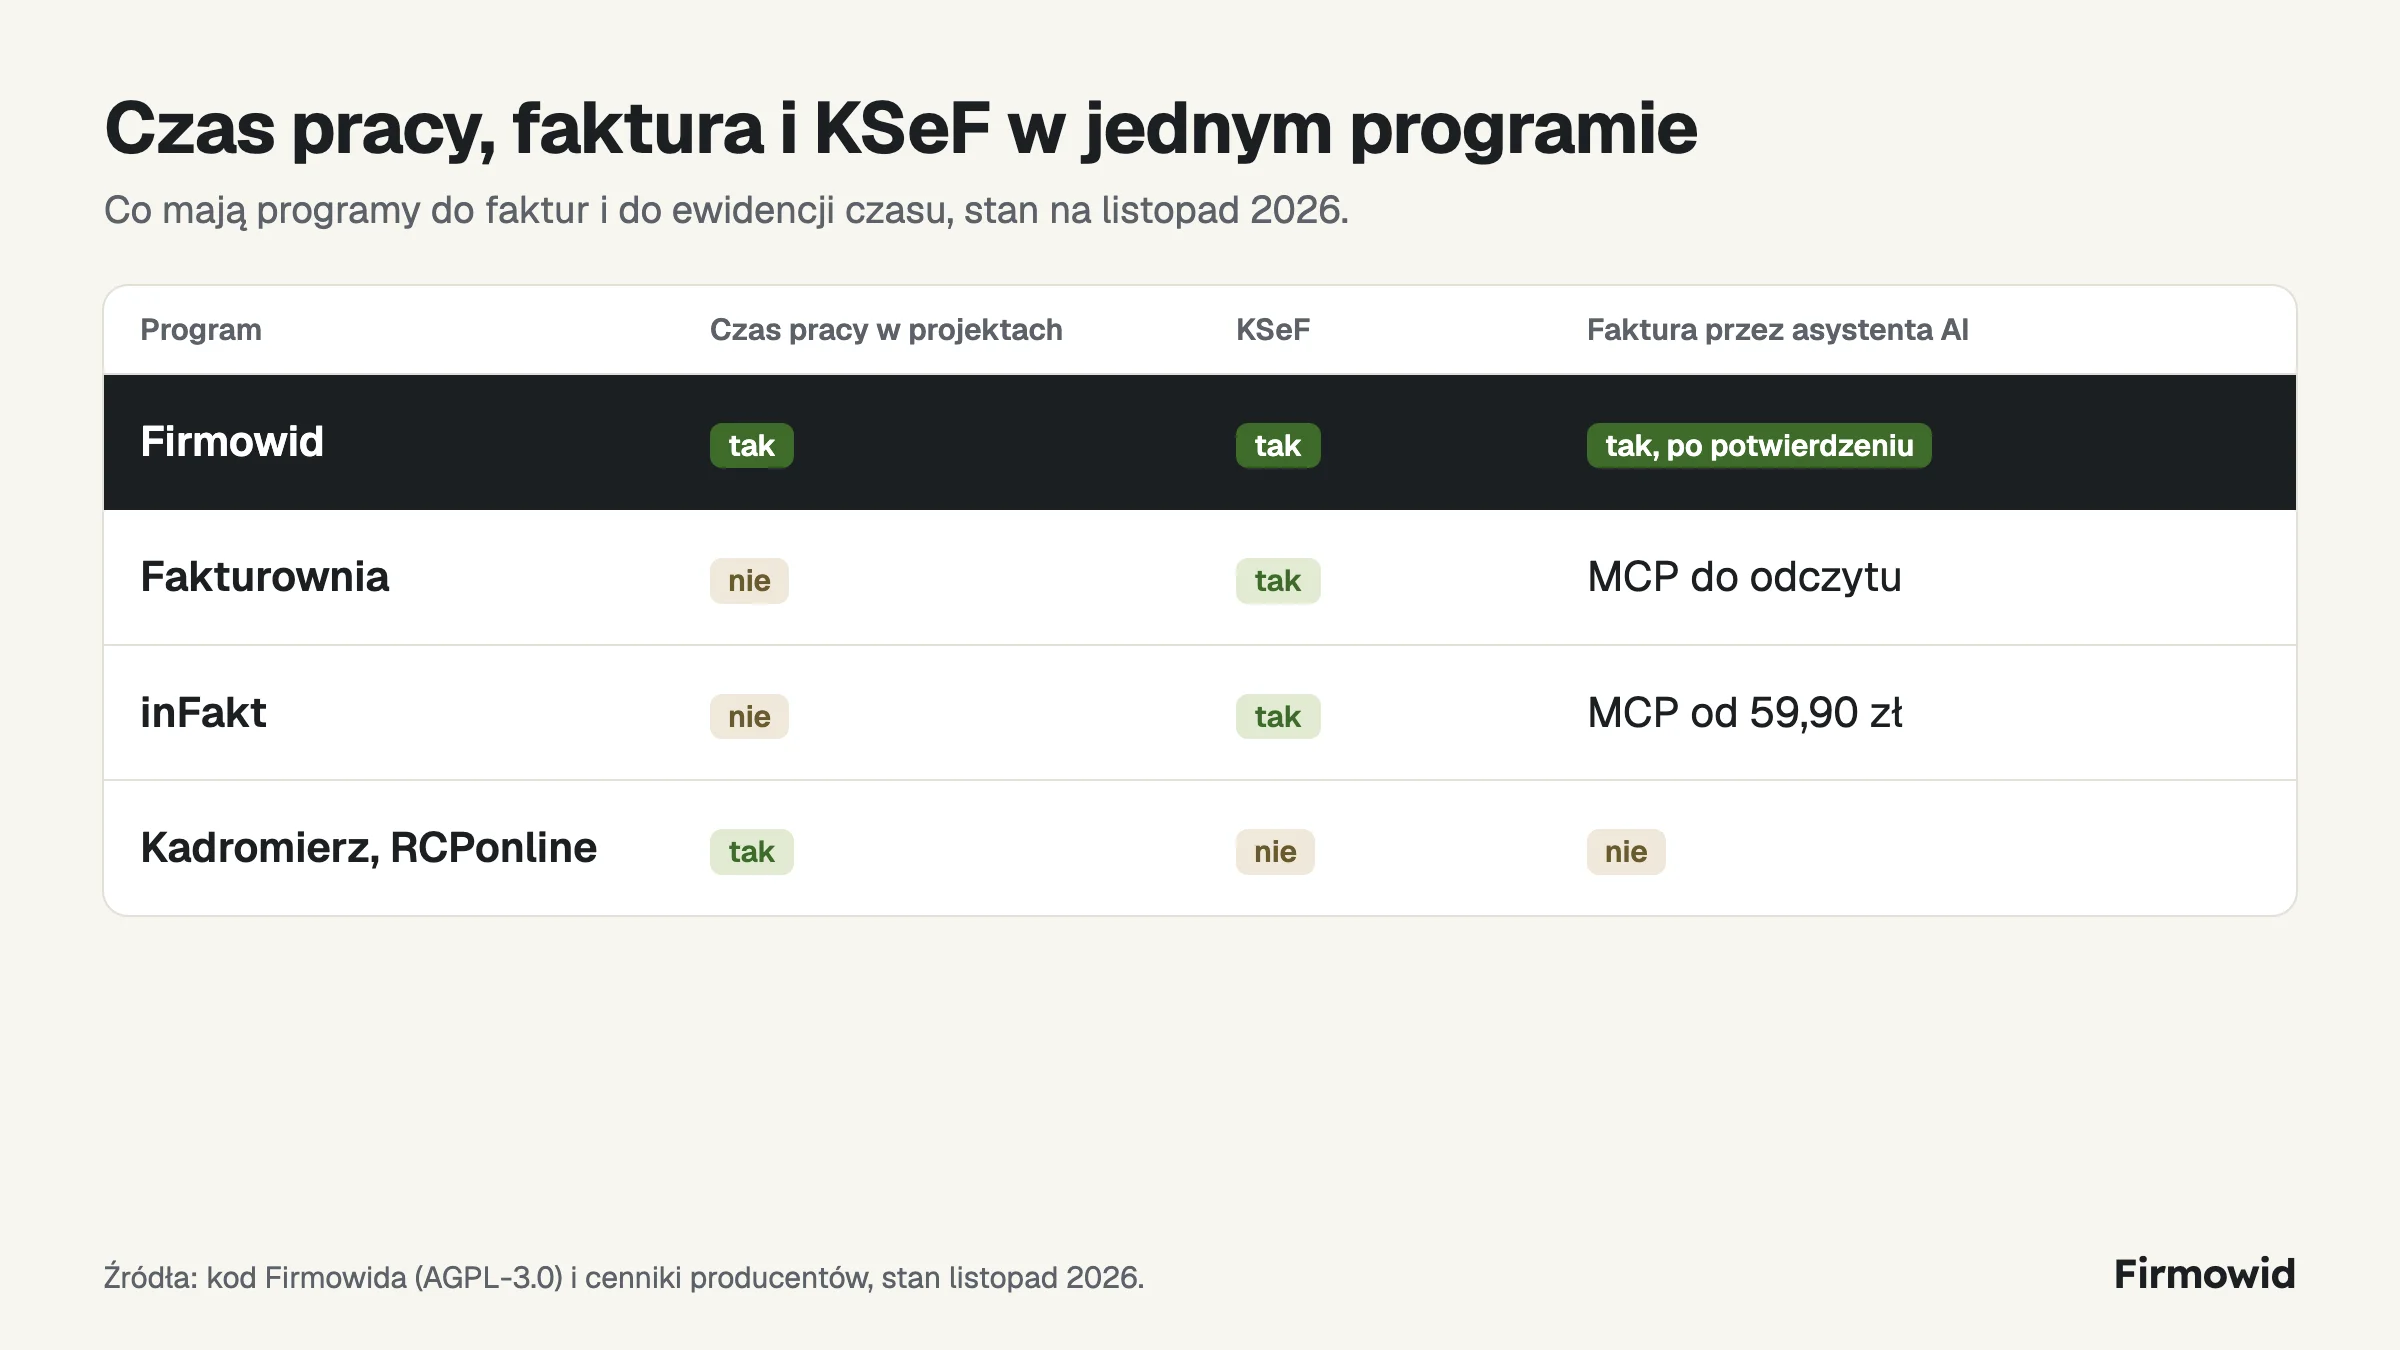
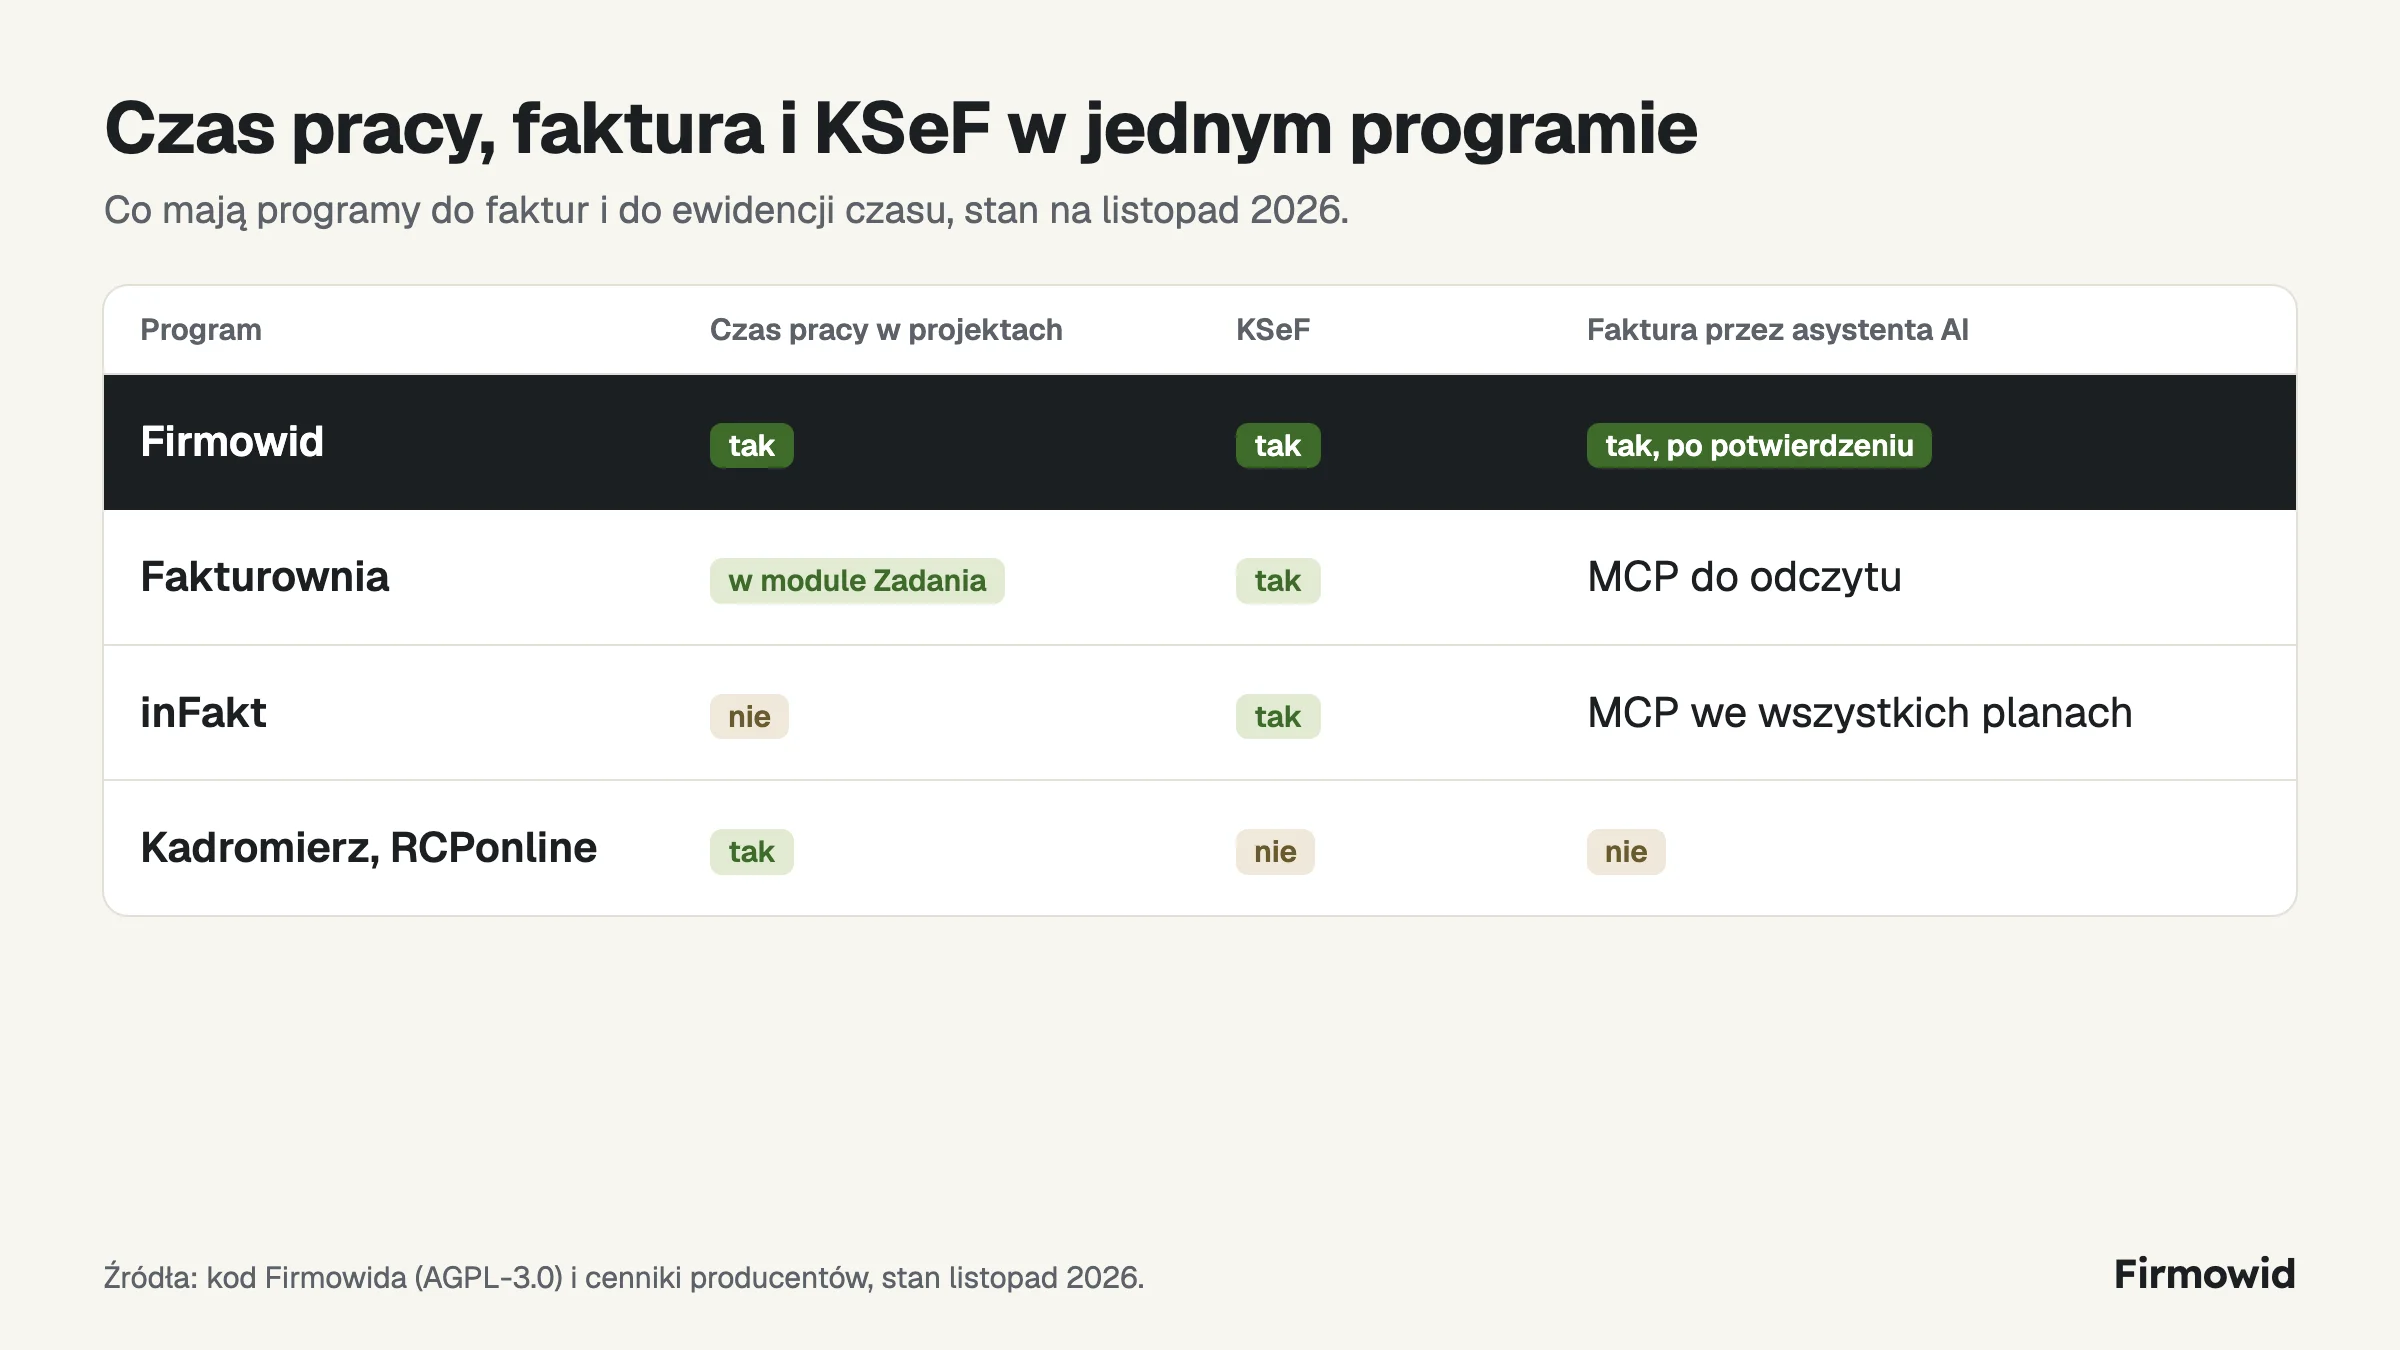
fix(landing): correct Fakturownia time tracking and inFakt MCP
Addresses review feedback on PR #415.

Changed region(s): [[0.7188, 0.4978, 0.875, 0.56], [0.3125, 0.4044, 0.4375, 0.4667]]

diff --git a/priv/guides/fakturowanie-za-godziny-czas-pracy.md b/priv/guides/fakturowanie-za-godziny-czas-pracy.md
@@ -28,13 +28,13 @@ Klient dostaje fakturę, a do niej łatwo wygenerować raport godzin z projektu.
 | Program | Czas pracy w projektach | KSeF | Faktura przez asystenta AI |
 |---|---|---|---|
 | Firmowid | tak | tak | tak, po potwierdzeniu |
-| Fakturownia | nie | tak | MCP do odczytu |
-| inFakt | nie | tak | MCP od 59,90 zł |
+| Fakturownia | w module Zadania | tak | MCP do odczytu |
+| inFakt | nie | tak | MCP we wszystkich planach |
 | Kadromierz, RCPonline | tak | nie | nie |
 
 MCP działa od planu [Przedsiębiorca](/cennik).
 
-![Porównanie programów: Firmowid ma czas pracy w projektach, KSeF i fakturę przez asystenta AI po potwierdzeniu. Fakturownia i inFakt mają KSeF, ale nie czas pracy w projektach. Kadromierz i RCPonline mają czas pracy, ale nie KSeF.](/images/guides/faktura-za-godziny-czas-pracy-programy.webp)
+![Porównanie programów: Firmowid ma czas pracy w projektach, KSeF i fakturę przez asystenta AI po potwierdzeniu. Fakturownia ma KSeF i czas pracy w module Zadania, inFakt ma KSeF i MCP, ale nie czas pracy w projektach. Kadromierz i RCPonline mają czas pracy, ale nie KSeF.](/images/guides/faktura-za-godziny-czas-pracy-programy.webp)
 
 ## Źródła
 
